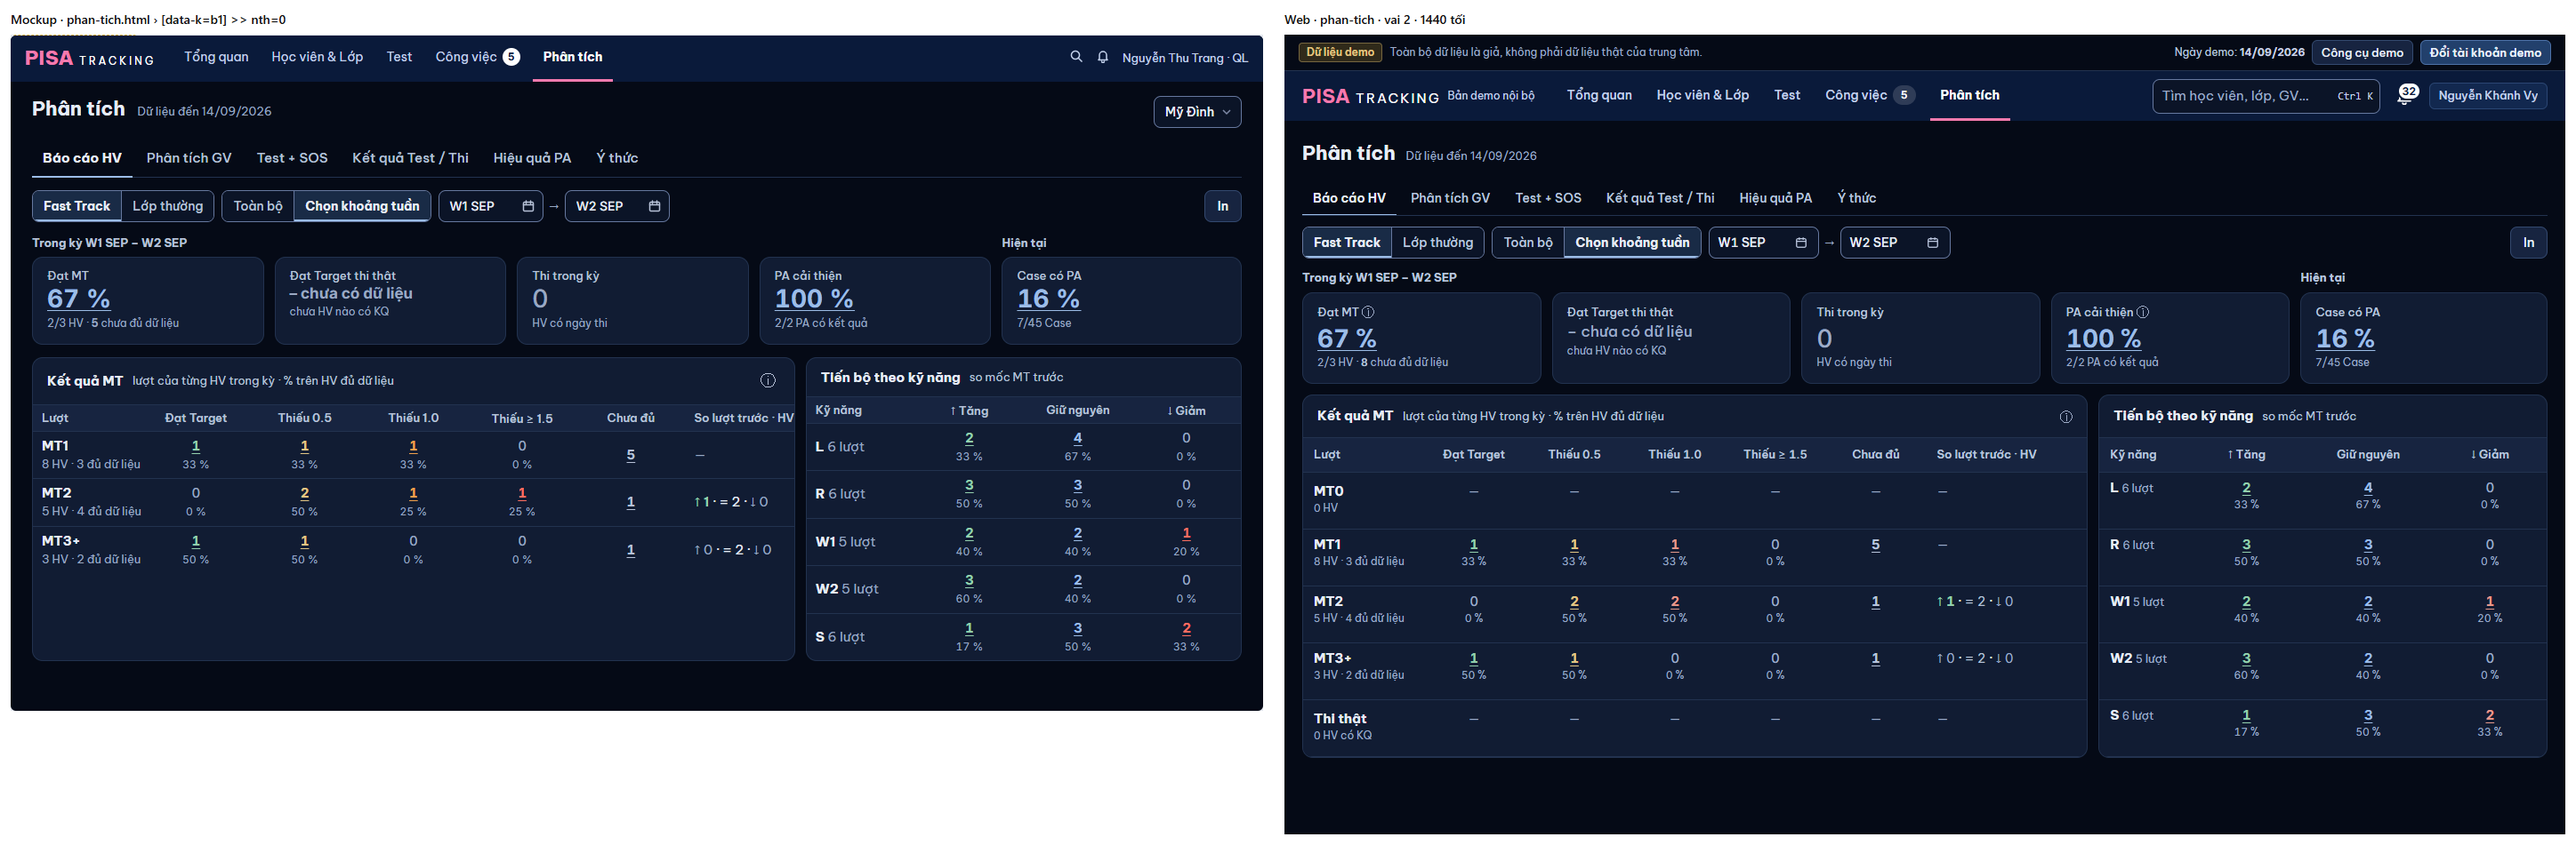
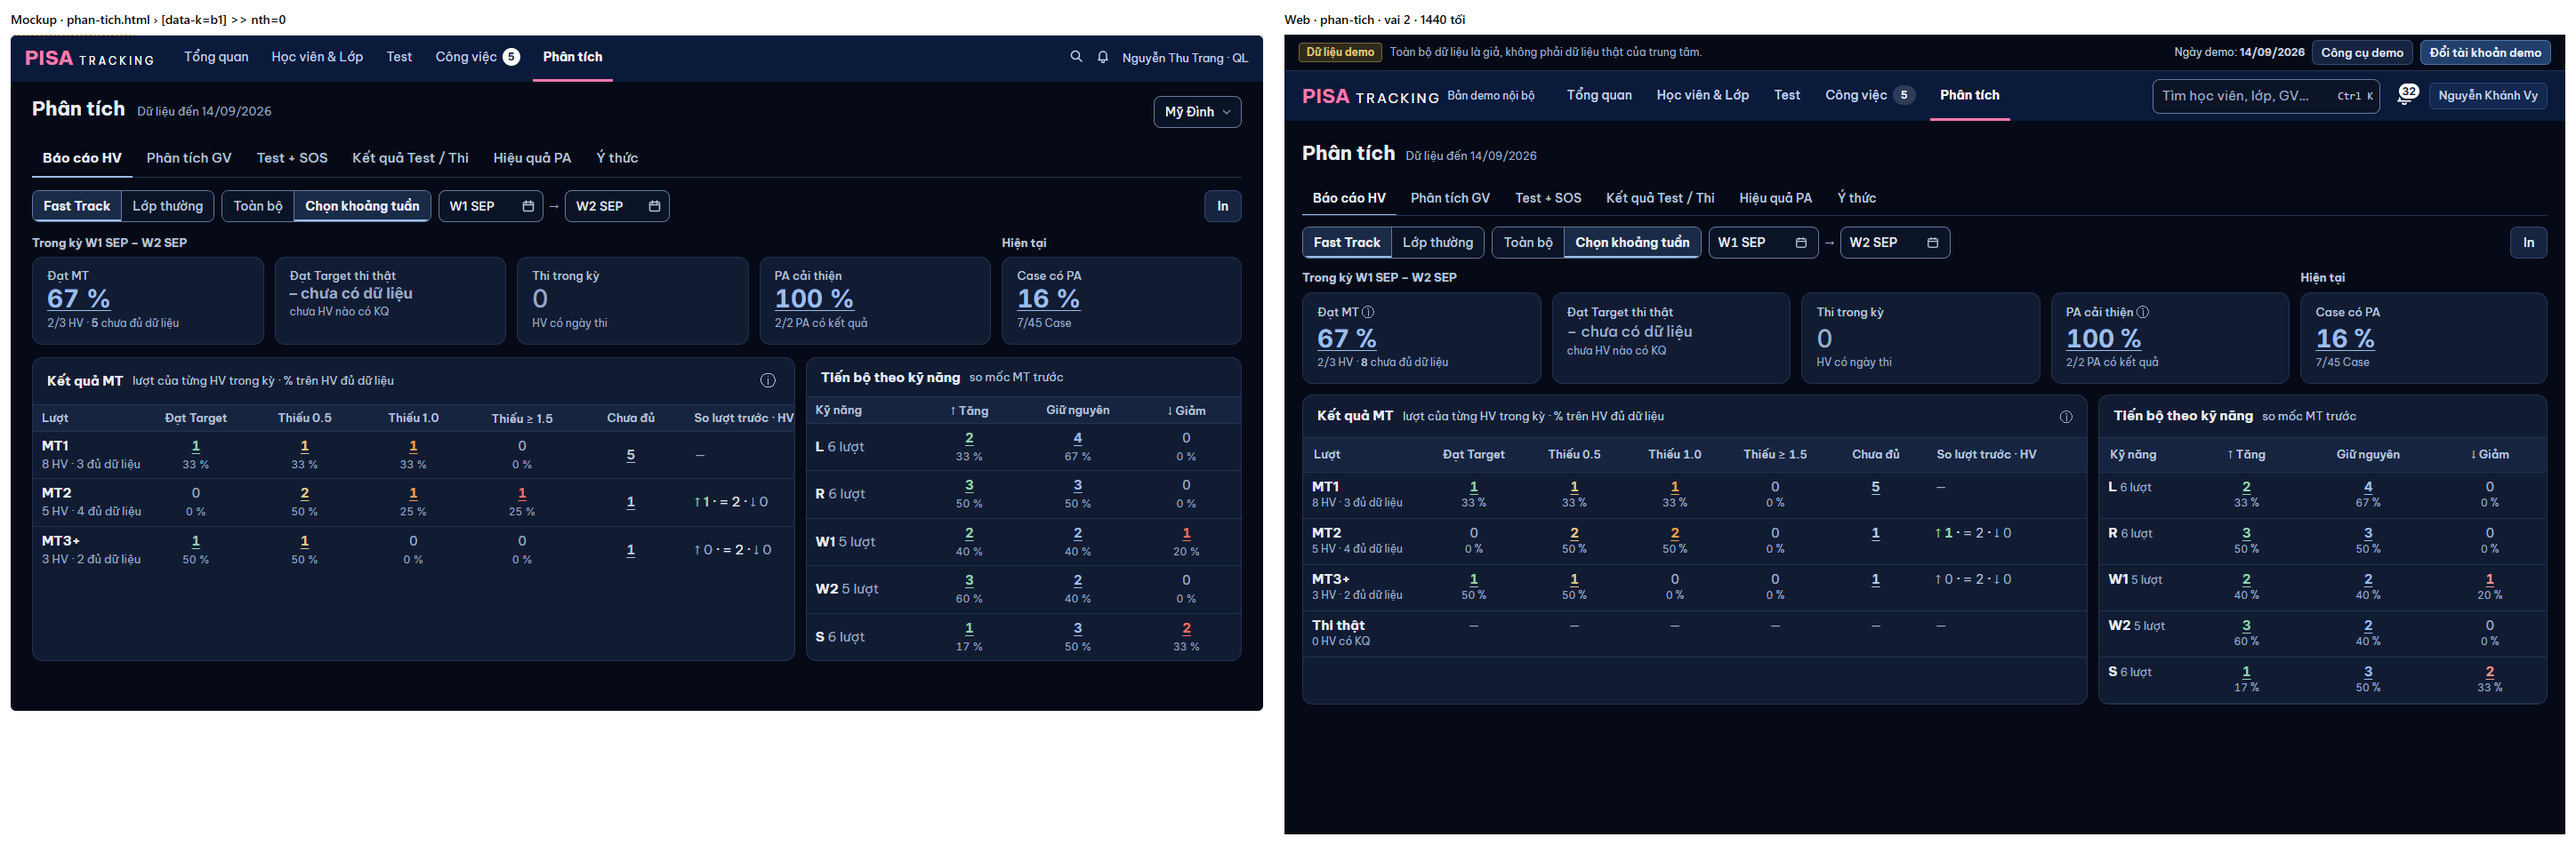
U08: Thiếu 1.0 cam (token kq-thieu10), hàng Báo cáo gọn 52px, ẩn hàng 0 HV (giữ Thi thật), khung điểm ở panel Case

diff --git a/web/src/modules/phanTich/BaoCao.tsx b/web/src/modules/phanTich/BaoCao.tsx
@@ -5,7 +5,6 @@ import { ErrorState, Skeleton } from '../../ui/ui.tsx';
 import { OSo } from '../../ui/OSo.tsx';
 import { Bang, type CotBang } from '../../ui/Bang.tsx';
 import { NutLuat } from '../../ui/NutLuat.tsx';
-import { useDienThoai } from '../../ui/TheDong.tsx';
 import { PhanTram, TheoChiNhanh, mauDatMt, tuMau, type TongQuanV5Data } from '../worklist/TongQuanV5.tsx';
 import { DaiChiSo, DauThe, NutXemToanBo, thamSoLoc, type PhamViPhanTich } from './dungChung.tsx';
 import { t } from '@shared/i18n/index.ts';
@@ -32,7 +31,7 @@ const COT_TB: readonly CotBang[] = [
 ];
 const pt = (n: number, mau: number) => (mau ? `${Math.round((100 * n) / mau)} %` : null);
 /** U08-1 (mockup V11 `.m-dat / .m-05 / .m-10 / .m-15 / .m-cd`): màu số theo mức — tiêu đề cột vẫn ghi chữ; số 0 mờ (OSo tự xám). */
-const MAU_KQ_MT: Record<string, string> = { dat: 'text-ok', 'thieu-0.5': 'text-soon', 'thieu-1.0': 'text-late', 'thieu-1.5': 'text-bad', 'chua-du': 'text-dim' };
+const MAU_KQ_MT: Record<string, string> = { dat: 'text-ok', 'thieu-0.5': 'text-soon', 'thieu-1.0': 'text-kq-thieu10', 'thieu-1.5': 'text-bad', 'chua-du': 'text-dim' };
 /** Nhãn nhóm của dải chỉ số (mockup V11 B1): "Trong kỳ W1 SEP – W2 SEP" │ "Hiện tại". */
 const NHOM = 'text-[13px] font-bold text-dim';
 
@@ -71,7 +70,8 @@ export function BaoCao(pv: PhamViPhanTich) {
 
   return (
     <div className="bao-cao space-y-3">
-      <style>{'@media print { @page { size: A4 landscape; margin: 10mm; } .bao-cao .card { box-shadow: none; } }'}</style>
+      {/* U08 (mockup V11 `.bang td` 6px 10px · line-height 1.35): hàng hai bảng gọn như mockup. */}
+      <style>{'@media print { @page { size: A4 landscape; margin: 10mm; } .bao-cao .card { box-shadow: none; } } .bao-cao .bang > tbody > tr > td, .bao-cao .bang > tbody > tr:has([data-phu-odiem]:not(:empty)) > td { height: 52px; padding: 6px 10px; line-height: 1.35; }'}</style>
       <div data-hd="tq-tom-tat" className="grid gap-3 min-[1100px]:grid-cols-[minmax(0,4fr)_minmax(0,1fr)] print:grid-cols-[minmax(0,4fr)_minmax(0,1fr)]">
         <div className="grid content-start gap-1.5">
           <span className={NHOM}>{nhanKy}</span>
@@ -108,7 +108,6 @@ export function BaoCao(pv: PhamViPhanTich) {
 
 /** Kết quả MT (`10` mục 5): hàng MT0 → MT3+ + Thi thật, theo lượt của từng HV trong kỳ; Overall so Target đầu ra của em. Số bấm → panel em của ô. */
 function KetQuaMt({ api, nguon, phamVi }: { api: { data: KetQuaMtKq | null; error: any; reload: () => void }; nguon: (o: string) => string; phamVi: string }) {
-  const dienThoai = useDienThoai();
   const luat = t('So điểm Overall của lượt với Target đầu ra của chính em (không phải kỳ vọng MT). Mỗi HV tính ở lượt MT của mình trong kỳ. Bấm số để xem danh sách HV.');
   const oCua = (h: DongKqMt, c: CotBang): ReactNode => {
     if (c.key === 'luot') return <b className="text-slate-100">{NHAN_LUOT_KQ_MT[h.luot]}</b>;
@@ -133,7 +132,7 @@ function KetQuaMt({ api, nguon, phamVi }: { api: { data: KetQuaMtKq | null; erro
     <Khoi tieuDe={t('Kết quả MT')} luat={luat} phu={<><span className="hidden print:inline">{phamVi} · </span>{t('lượt của từng HV trong kỳ · % trên HV đủ dữ liệu')}</>}>
       {api.error ? <ErrorState message={api.error.message} hint={api.error.hint} status={api.error.status} onRetry={api.reload} />
         : !api.data ? <Skeleton rows={5} className="p-4" />
-          : <Bang ten={t('Kết quả MT')} cot={COT_KQ} hang={!api.data.rows.some((h) => h.hv) ? [] : dienThoai ? api.data.rows.filter((h) => h.hv || h.luot === 'thi') : api.data.rows} khoa={(h) => h.luot} oCua={oCua} phuCua={phuCua} khung={false} deu
+          : <Bang ten={t('Kết quả MT')} cot={COT_KQ} hang={!api.data.rows.some((h) => h.hv) ? [] : api.data.rows.filter((h) => h.hv || h.luot === 'thi')} khoa={(h) => h.luot} oCua={oCua} phuCua={phuCua} khung={false} deu
               rong={{ tieuDe: t('Chưa có lượt MT nào trong kỳ'), nut: <NutXemToanBo /> }} />}
     </Khoi>
   );

diff --git a/web/src/modules/phanTich/PanelCaseLuot.tsx b/web/src/modules/phanTich/PanelCaseLuot.tsx
@@ -49,7 +49,7 @@ export function PanelCaseLuot({ r, onDong }: { r: DongMock; onDong: () => void }
                     <button type="button" aria-expanded={m} onClick={() => doi(k)}
                       className="flex min-h-[44px] w-full cursor-pointer items-center gap-2.5 border-0 bg-transparent px-3.5 py-2.5 text-left text-[15px] font-semibold text-slate-100">
                       <span aria-hidden>{m ? '▾' : '▸'}</span>{TEN_KN[k]}
-                      <span className="text-sm font-bold text-kq-duoi tabular-nums">✗ {r.kn[k].band?.toFixed(1)}</span>
+                      <span className="inline-flex h-[22px] items-center rounded border border-bad-line px-2 text-sm font-semibold text-bad tabular-nums">✗ {r.kn[k].band?.toFixed(1)}</span>
                       {r.kyVong != null && <span className="text-[13px] font-medium text-faint">{t('kỳ vọng {kv}', { kv: r.kyVong.toFixed(1) })}</span>}
                       <span className="ml-auto">{cs.length ? <Nhan tone={TONE_NHOM[cs[0].nhom]}>{t(NHAN_NHOM_XU_LY[cs[0].nhom])}</Nhan> : <span className="text-[13px] font-medium text-faint">{t('Chưa có Case')}</span>}</span>
                     </button>

diff --git a/web/src/index.css b/web/src/index.css
@@ -78,6 +78,7 @@
     --da-thi-bg-rgb: 22 35 46;
     /* KẾT QUẢ ĐIỂM — chỉ tô chính con số + ✓ / ✗ đứng trước, không nền. Vượt kỳ vọng · bằng (vẫn Đạt) · dưới. */
     --kq-vuot-rgb: 148 209 174;  --kq-bang-rgb: 156 189 231;  --kq-duoi-rgb: 232 154 140;
+    --kq-thieu10-rgb: 240 160 75;   /* U08-1: "Thiếu 1.0" cam (mockup V11 `.m-10`) — giữa vàng 0.5 và đỏ ≥ 1.5 */
 
     /* Tên cũ giữ làm bí danh để chỗ đang dùng không vỡ. */
     --ok: rgb(var(--ok-rgb));
@@ -139,6 +140,7 @@
     --sos2-nen: #f6d8b8;  --sos3-nen: #862e27;  --sos3-vien: #862e27;  --sos3-tren: #ffffff;
     --da-thi-bg-rgb: 240 245 248;
     --kq-vuot-rgb: 56 103 76;    --kq-bang-rgb: 39 60 143;    --kq-duoi-rgb: 166 58 45;
+    --kq-thieu10-rgb: 181 84 31;
 
     --hang-lon-bg: #f2f4f9;       --hang-lon-vach: #8690ab;
     --hang-lon-dong-bg: #f8f9fc;  --hang-lon-dong-vach: #b0b8cd;

diff --git a/tailwind.config.js b/tailwind.config.js
@@ -33,7 +33,7 @@ export default {
       boxShadow: { lg: 'var(--bong-noi)', xl: 'var(--bong-noi)', '2xl': 'var(--bong-noi)' },
       colors: {
         // NEN-TYPO-MAU: kết quả điểm — chỉ tô chính con số / ký hiệu ✓ ✗ (`text-kq-vuot`), không nền.
-        'kq-vuot': v('kq-vuot'), 'kq-bang': v('kq-bang'), 'kq-duoi': v('kq-duoi'),
+        'kq-vuot': v('kq-vuot'), 'kq-bang': v('kq-bang'), 'kq-duoi': v('kq-duoi'), 'kq-thieu10': v('kq-thieu10'),
         ok: nghia('ok'), bad: nghia('bad'), late: nghia('late'), soon: nghia('soon'),
         doing: nghia('doing'), done: nghia('done'), muted: nghia('muted'),
         dat: nghia('dat'),
